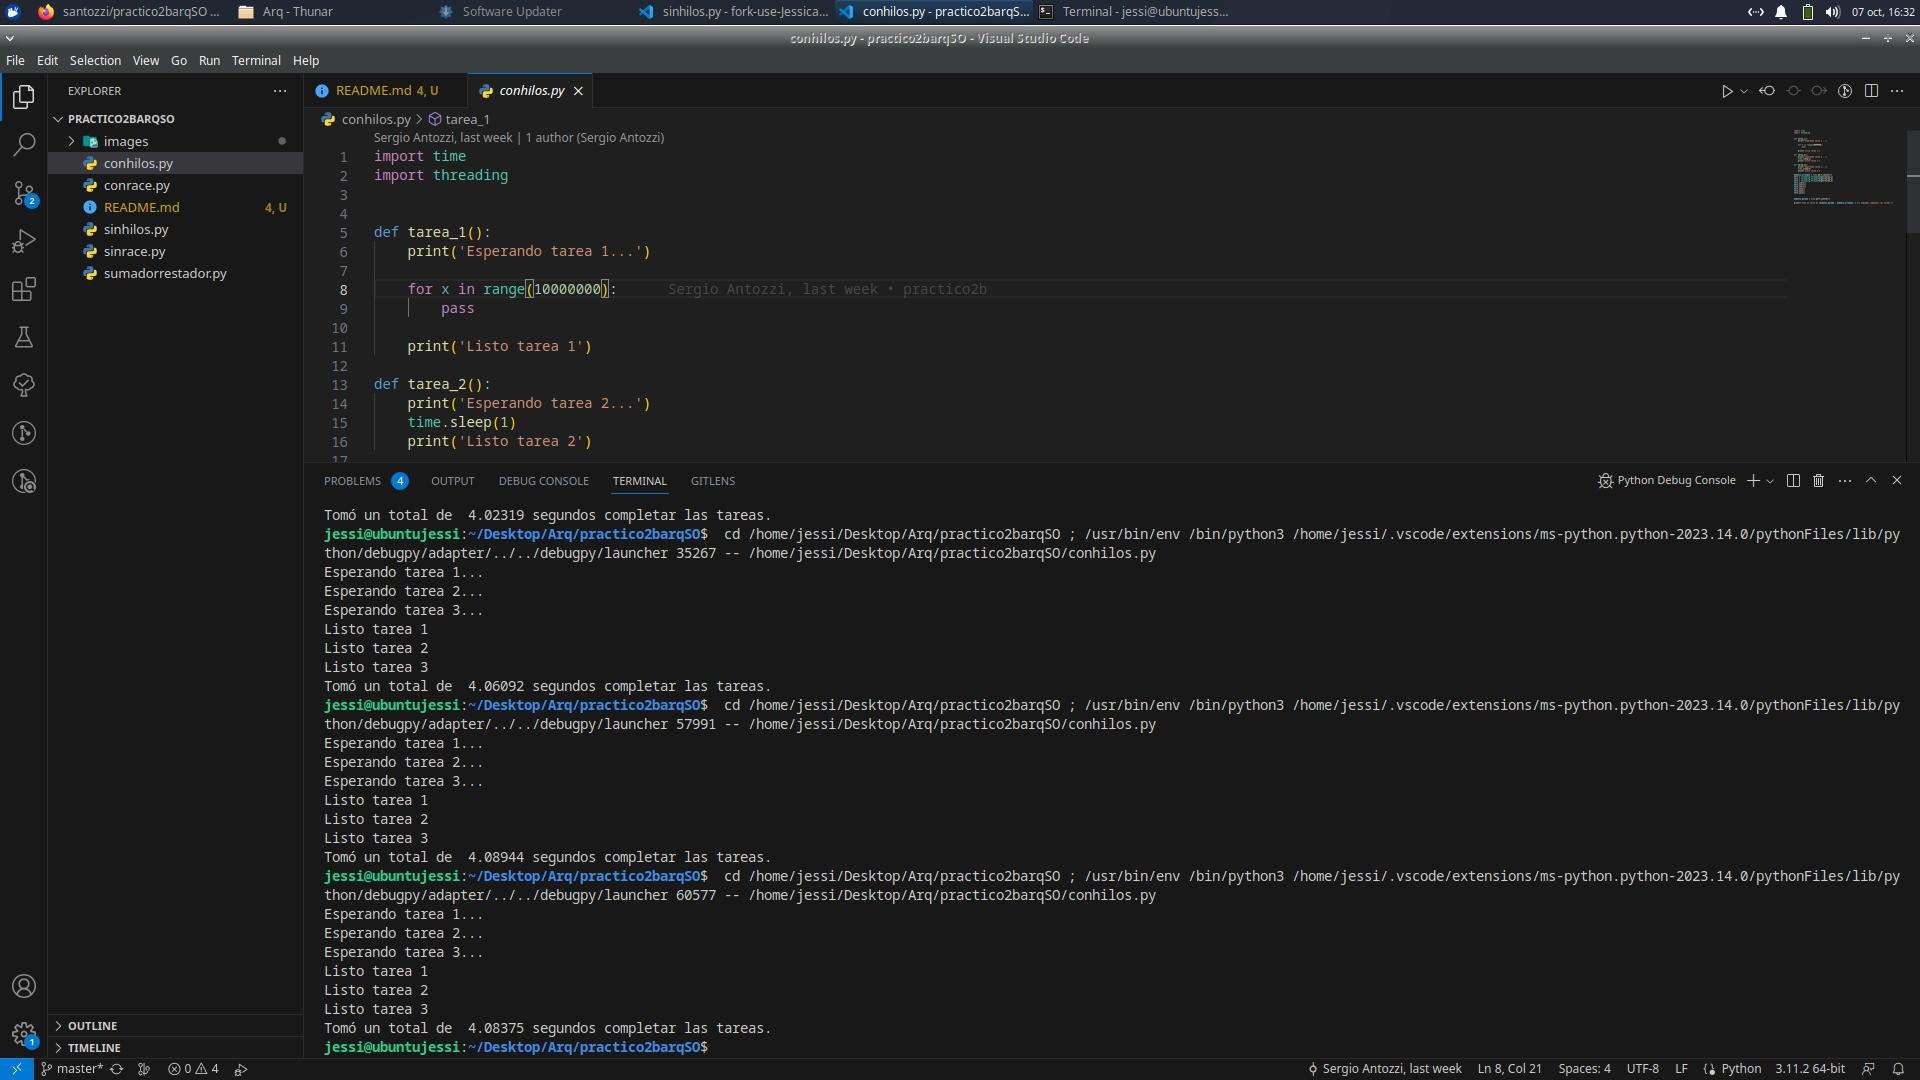
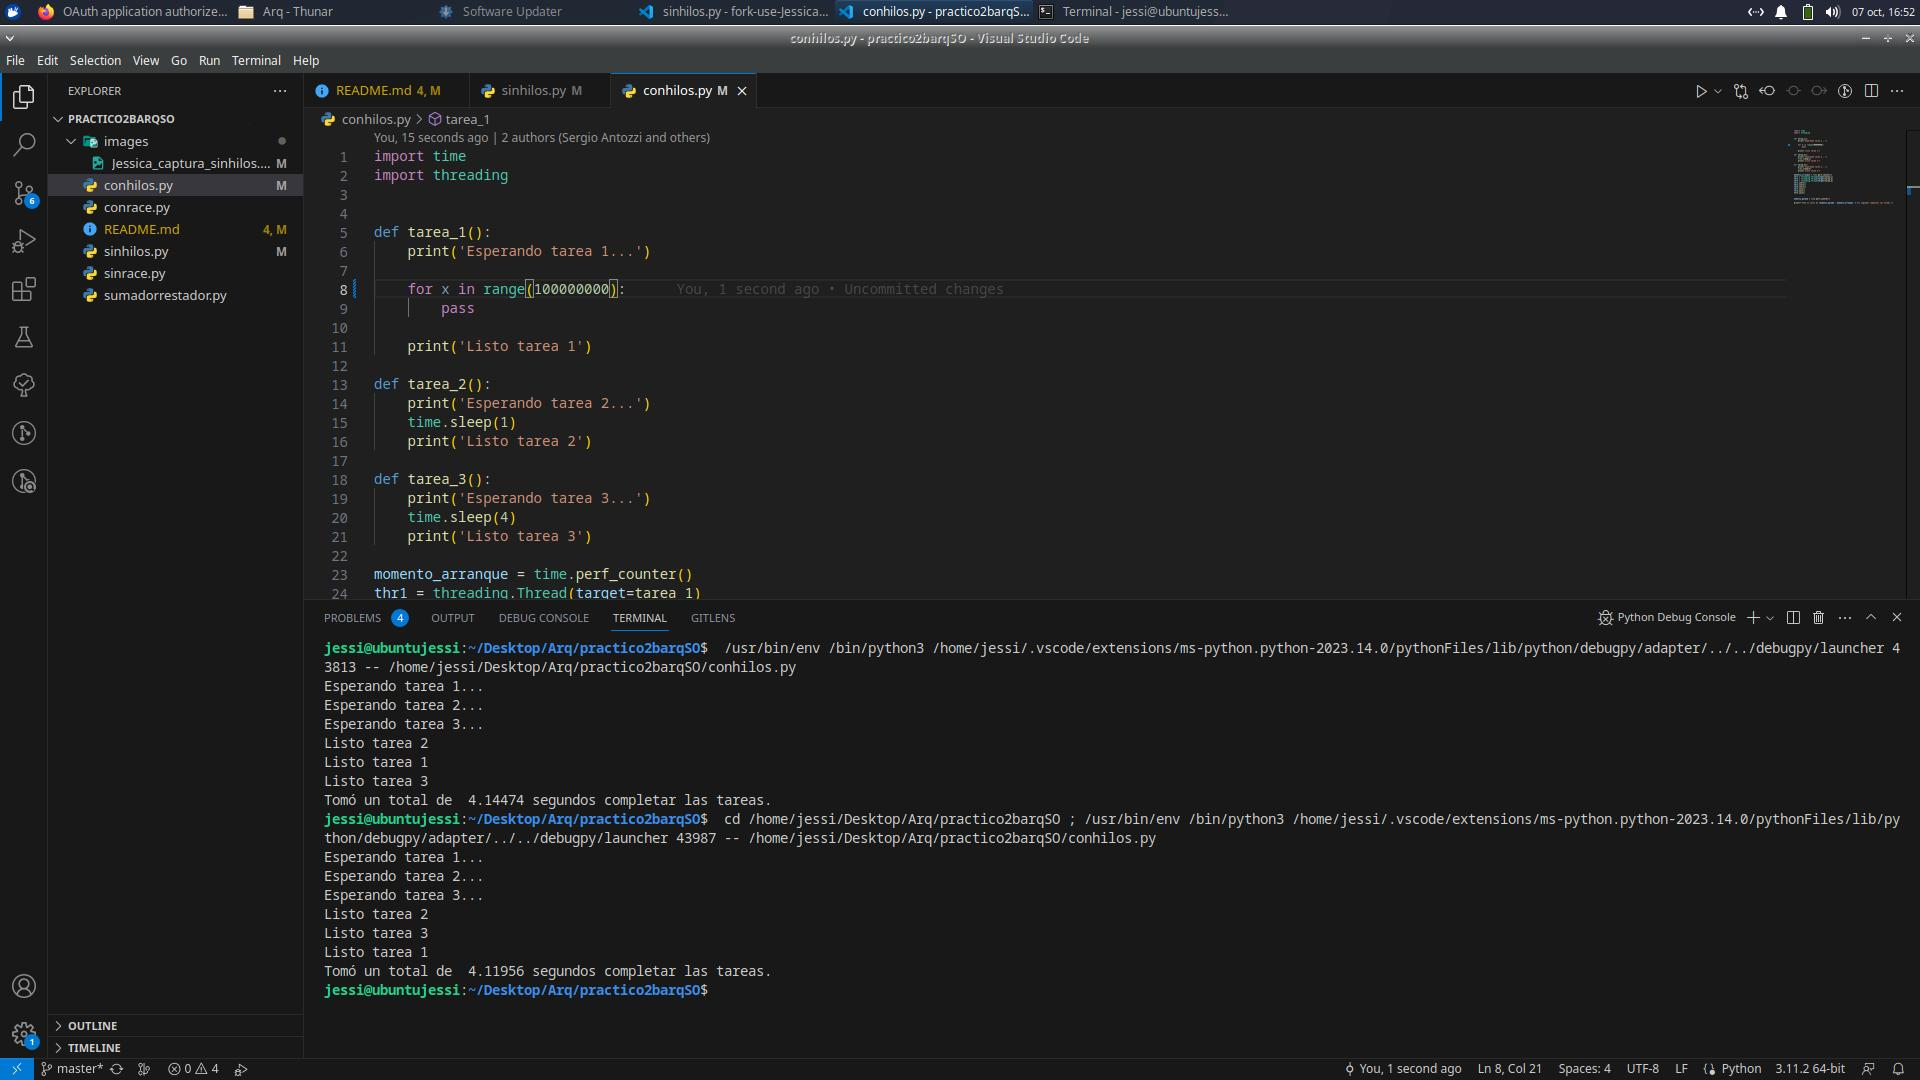
cambie cantidad de 0 en el range, cambie capturas con los nuevos datos

diff --git a/conhilos.py b/conhilos.py
@@ -5,7 +5,7 @@ import threading
 def tarea_1():
     print('Esperando tarea 1...')
 
-    for x in range(10000000):
+    for x in range(100000000):
         pass
     
     print('Listo tarea 1')

diff --git a/sinhilos.py b/sinhilos.py
@@ -3,7 +3,7 @@ import time
 def tarea_1():
     print('Esperando tarea 1...')
 
-    for x in range(10000000):
+    for x in range(100000000):
         pass
     
     print('Listo tarea 1')

diff --git a/README.md b/README.md
@@ -1,7 +1,12 @@
 # Práctico 2b para Arquitectura y Sistemas Operativos UTN
 
-<ol>
-    <li>El tiempo de ejecución no es predecible</li>
-    <li></li>
-    <li></li>
-</ol>
+* 1a) Capturas
+
+<img src="./images/Jessica_captura_sinhilos.jpg">
+
+<br>
+
+<img src="./images/sergio_captura_sin_hilos.png">
+
+
+No
